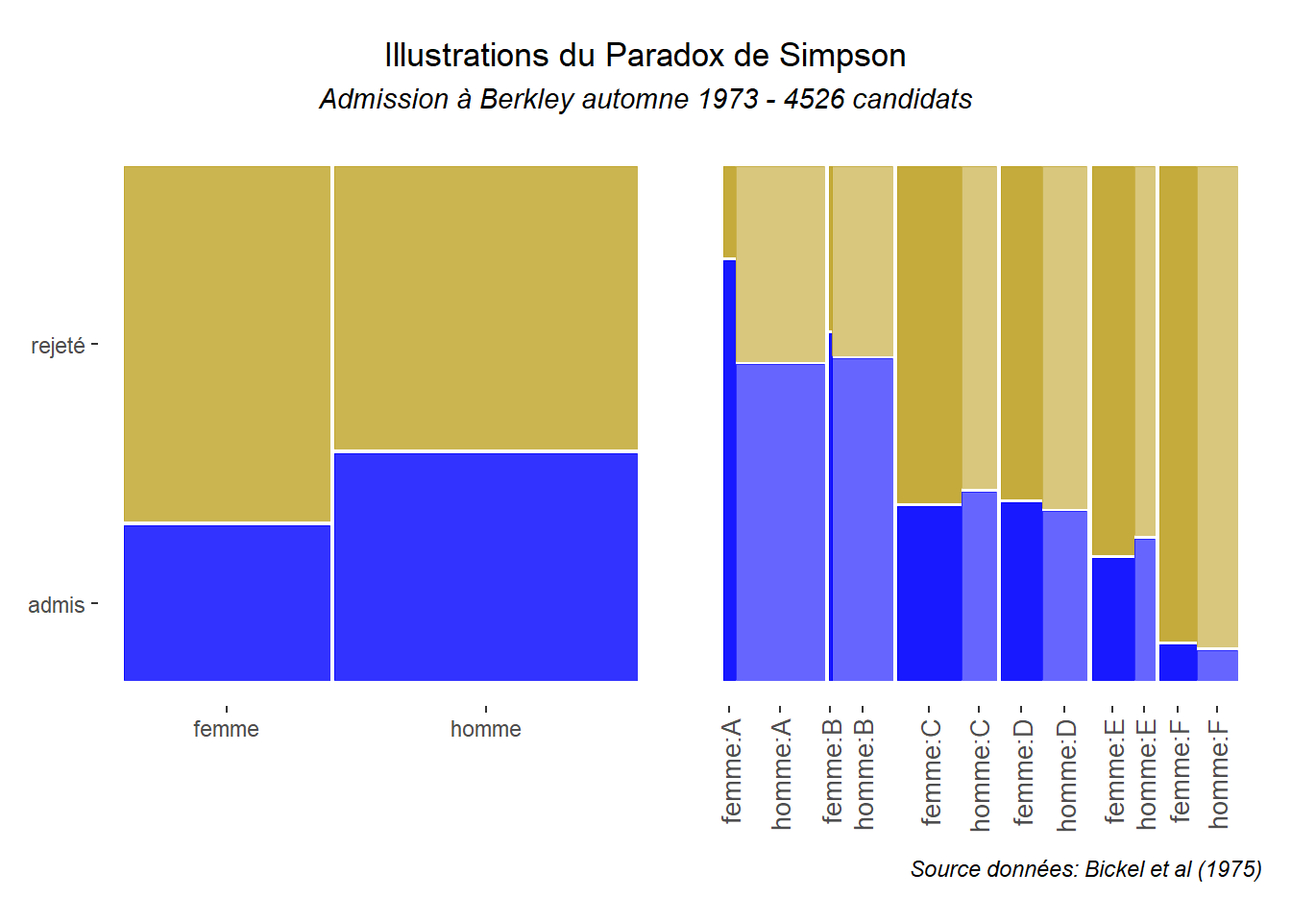
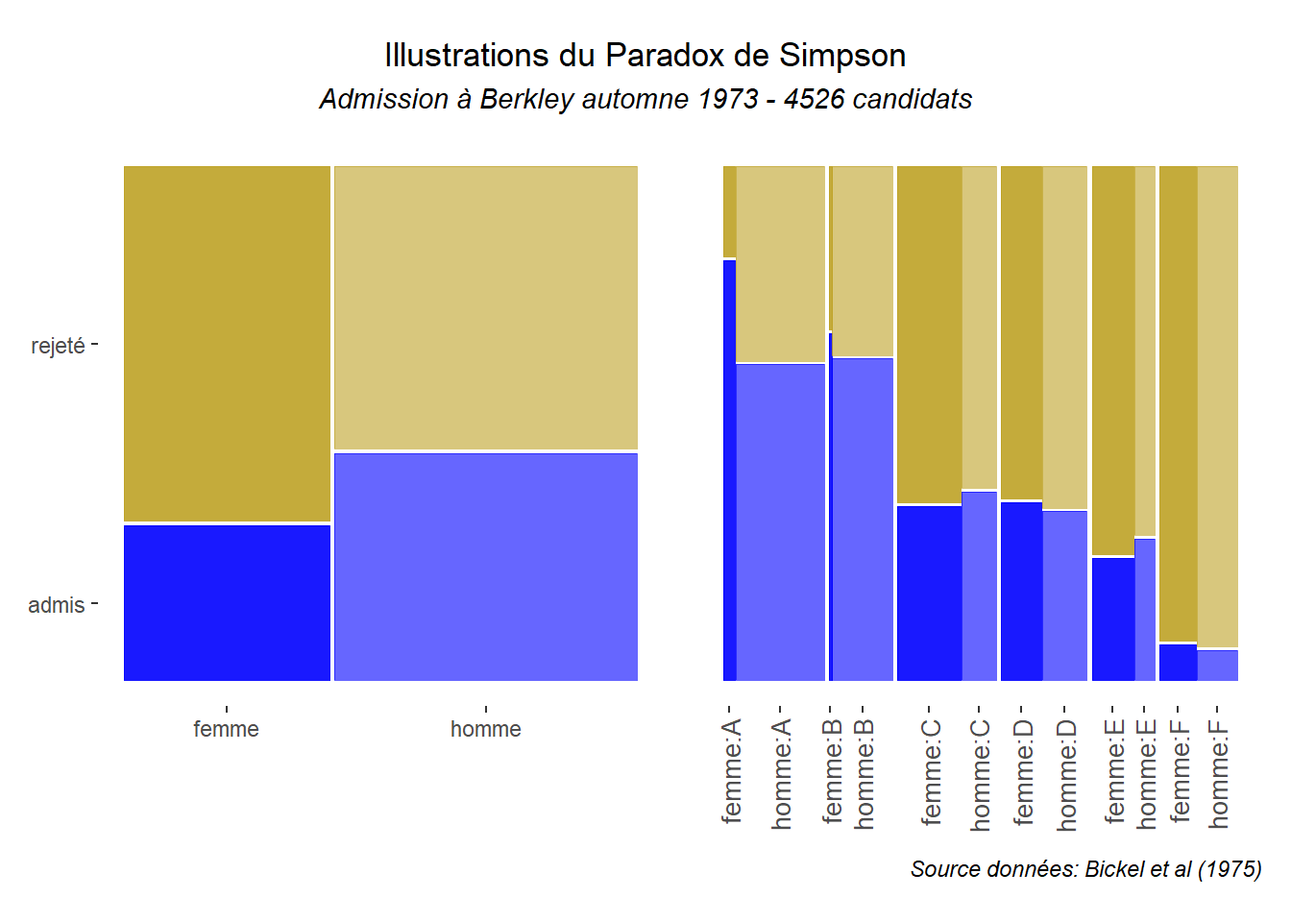
mod gt6 encore

Changed region(s): [[0.0938, 0.1562, 0.5, 0.75]]

diff --git a/content/post/2022-01-07-le-diagramme-en-mosaic-et-le-graphe-marimekko-gt6/index.html b/content/post/2022-01-07-le-diagramme-en-mosaic-et-le-graphe-marimekko-gt6/index.html
@@ -15,15 +15,15 @@ tags:
 <script src="{{< blogdown/postref >}}index_files/header-attrs/header-attrs.js"></script>
 
 
-<p><strong>Continuons notre exploration des graphes permettant d’illustrer la comparaison entre des variables catégorielles avec une autre alternative aux diagrammes à bâtons. Intéressons-nous maintenant aux diagrammes en mosaïque et le graphe de Marimekko (ou Mekko). Ceux-ci mobilisent des éléments rectangulaires que se combinent dans unique rectangle. Chaque dimension de ce dernier est attachée à une des variables. Ainsi, on a sur la largeur (les abscisses) des barres accolées correspondant aux différentes modalités de la première variable et sur la longueur (les ordonnées) empilées les modalité de la seconde variable. Les séparations entre modalités reprises sur chaque dimension sont opérées de manière à représenter les effectifs des éléments qui la compose. La taille des groupes désignées par l’interaction des variables est ainsi reflété par la surface du rectangle qui lui correspond. Cela facilite l’identification des relations entre les variables.</strong></p>
-<p>Tout ceci est un peu abstrait… Prenons un exemple d’utilisation de ce type de graphe et profitons en pour comparer le rendu avec différentes formes de diagramme à bâtons. Mais, avant de nous lancer chargeons quelques packages utils pour la suite.</p>
+<p><strong>Continuons notre exploration des graphes permettant d’illustrer une comparaison entre des variables catégorielles. Intéressons-nous aux diagrammes en mosaïque et au graphe de Marimekko (ou Mekko plot). Ceux-ci mobilisent des éléments rectangulaires, les tuiles de la mosaïque, que se combinent dans grand rectangle. Chacune de ses dimensions est attachée à une des variables. Ainsi, on a en abscisses des barres accolées correspondant aux différentes modalités de la première variable et sur les ordonnées empilées les modalités de la seconde. Les séparations entre modalités sont opérées de manière à représenter les effectifs qui les composent. La taille des groupes désignées par l’intersection des variables est ainsi représentée par la surface du petit rectangle qui lui correspond. Cela facilite l’identification des relations entre les variables.</strong></p>
+<p>Tout ceci est un peu abstrait… Prenons un exemple d’utilisation de ce type de graphe pour y voir plus clair et profitons-en pour comparer le rendu avec celui des différentes formes de diagramme à bâtons. Mais, avant de nous lancer, chargeons quelques packages utiles pour la suite.</p>
 <pre class="r"><code>library(tidyverse)
 library(patchwork)
 library(rvest)
 library(ggmosaic)</code></pre>
-<p>Notez la présence de deux packages que nous n’avons pas encore utilisé rvest et ggmosaic. Le premier sert à scrapper des informations sur internet. Le second, comme son nom l’indique, permet intègre un <strong>geom_</strong> supplémentaire dans ggplot pour réaliser facilement un diagramme en mosaïque (ou un de ses dérivés).</p>
-<p>Venons-en aux données mobilisées. Utilisons celles proposées par Bickel et al. (1975)<a href="#fn1" class="footnote-ref" id="fnref1"><sup>1</sup></a>. Dans cet article, les auteurs s’intéressent au biais de sélection en fonction du sexe affectant les candidats à l’admission à l’université de Berkeley. Ils montrent que, si l’on s’arrête à l’analyse bi-variée, les femmes apparaissent nettement défavorisées par rapport aux hommes. Néanmoins, si l’on creuse et que l’on prend en compte les départements dans lesquels les candidats postulent, la différence homme femme n’est plus significative. On se rend compte que si les femmes sont moins souvent admis à Berkley, c’est qu’elles postulent plus souvent dans les départements les plus sélectifs et donc son plus souvent rejetée. On est face à ce que l’on appel le paradoxe de Simpson, le résultat primaire est contre-dit par le résultat approfondi prenant en compte plus de facteurs. D’un point de vue pratique, si on avait voulu assurer l’égalité hommes/femmes à Berkley à l’époque, il aurait été plus utile d’agrandir les départements dans lesquels elles postulent le plus ou les encourager à postuler sur d’autres moins sélectifs plutôt que de travailler sur une discrimination globale.</p>
-<p>Allons chercher ces données sur la page wikipédia anglo-saxonne dédiée au <a href="https://en.wikipedia.org/wiki/Simpson%27s_paradox">paradoxe de Simpson</a>.Commençons par intégrer le premier tableau dans R en utilisant les fonctions de rvest. <strong>read_html()</strong> crée la connexion avec la page où se trouve l’information. <strong>html_nodes()</strong> trie l’information sur la page pour isoler l’élément que vous voulez intégrer dans R. Ici, nous utilisons l’option xpath. Pour obtenir, le chemin de l’élément sélectionné le tableau sur la page, effectuez un clique gauche, sélectionnez “inspecter”, puis dans la nouvelle fenêtre qui s’ouvre sélectionner “copier xpath”. <strong>htm_table()</strong> permet de structurer l’information du tableau.</p>
+<p>Notez la présence de deux packages que nous n’avons pas encore utilisé rvest et ggmosaic. Le premier sert à scrapper des informations sur internet. Le second, comme son nom l’indique, permet intégrer un <strong>geom_</strong> supplémentaire dans ggplot pour réaliser facilement un diagramme en mosaïque.</p>
+<p>Venons-en aux données mobilisées. Utilisons celles proposées par Bickel et al. (1975)<a href="#fn1" class="footnote-ref" id="fnref1"><sup>1</sup></a>. Dans cet article, les auteurs s’intéressent au biais de sélection en fonction du sexe affectant les candidats à l’admission à l’université de Berkeley en 1973. Ils montrent que, si l’on s’arrête à l’analyse bi-variée, les femmes apparaissent nettement défavorisées par rapport aux hommes. Néanmoins, si l’on creuse et que l’on prend en compte les départements dans lesquels les candidats postulent, la différence homme/femme n’est plus significative. On se rend compte que si les femmes sont moins souvent admise à Berkley, c’est qu’elles postulent plus dans les départements les plus sélectifs et donc son plus souvent rejetée. On est face à ce que l’on appel le paradoxe de Simpson, le résultat primaire est contre-dit par le résultat approfondi prenant en compte plus de facteurs. D’un point de vue pratique, si on avait voulu assurer l’égalité hommes/femmes à Berkley à l’époque, il aurait été plus utile d’augmenter le nombre de places dans les départements dans lesquels elles postulent le plus ou les encourager à postuler sur d’autres moins sélectifs plutôt que de travailler sur une discrimination globale.</p>
+<p>Allons chercher ces données sur la page wikipédia anglo-saxonne dédiée au <a href="https://en.wikipedia.org/wiki/Simpson%27s_paradox">paradoxe de Simpson</a>.Commençons par intégrer le premier tableau dans R en utilisant les fonctions de rvest. <strong>read_html()</strong> crée la connexion avec la page où se trouve l’information. <strong>html_nodes()</strong> trie l’information sur la page pour isoler l’élément que vous voulez traiter. Ici, nous utilisons l’option xpath. Pour obtenir le chemin de l’élément, sélectionnez le tableau sur la page, effectuez un clique gauche, sélectionnez “inspecter”, puis dans la nouvelle fenêtre qui s’ouvre sélectionner “copier xpath”. <strong>htm_table()</strong> permet de restructurer les éléments importer pour l’intégrer dans un tableau.</p>
 <pre class="r"><code>url&lt;-&quot;https://en.wikipedia.org/wiki/Simpson%27s_paradox&quot;
 dat1&lt;-url %&gt;% 
     read_html() %&gt;%
@@ -34,7 +34,7 @@ dat1</code></pre>
 <pre><code>##   Var.1        All    All.1        Men    Men.1      Women  Women.1
 ## 1       Applicants Admitted Applicants Admitted Applicants Admitted
 ## 2 Total     12,763      41%      8,442      44%      4,321      35%</code></pre>
-<p>L’information obtenue doit être retravailler pour permettre son traitement. Vous voudrions simplement une data frame avec une colonne pour le sexe du candidat et une pour son statut (admis ou rejeté). Utilisons la fonction <strong>rep()</strong> pour générer les observations correspondant et vérifions si le résultat est conforme au tableau que nous avons scrappé avec les fonctions <strong>table()</strong> et <strong>addmargins()</strong>.</p>
+<p>L’information obtenue doit être retravailler pour permettre son traitement. Vous voudrions simplement une data frame avec une colonne pour le sexe des candidats et une pour leur statut (admis ou rejeté). Utilisons la fonction <strong>rep()</strong> pour générer les observations correspondant et vérifions si le résultat est conforme au tableau que nous avons scrappé avec les fonctions <strong>table()</strong> et <strong>addmargins()</strong>.</p>
 <pre class="r"><code>dat1&lt;-data.frame(
   sexe=c(rep(&#39;homme&#39;,8442),rep(&#39;femme&#39;,4321)),
   statut=c(rep(&#39;admis&#39;,round(8442*0.41)),
@@ -47,7 +47,7 @@ addmargins(table(dat1))</code></pre>
 ##   femme  1512   2809  4321
 ##   homme  3461   4981  8442
 ##   Sum    4973   7790 12763</code></pre>
-<p>Maintenant que nous avons nos données, essayons d’illustrer la différence hommes/femmes concernant le taux d’admission à Berkley. Commençons par un diagramme à bâtons juxtaposés. Il s’obtient grâce au <strong>geom_bar()</strong> et l’option position “dodge”. Réalisons quelques mises en formes de manière obtenir le graphe le plus parlant possible. Retenons notamment les couleurs de l’université (bleu et marron claire) pour nos barres.</p>
+<p>Maintenant que nous avons nos données, essayons d’illustrer la différence hommes/femmes concernant le taux d’admission à Berkley. Commençons par un diagramme à bâtons juxtaposés. Il s’obtient grâce au <strong>geom_bar()</strong> et l’option <em>position</em> “dodge”. Réalisons également quelques mises en formes de manière obtenir le graphe le plus parlant possible. Retenons notamment les couleurs de l’université (bleu et marron claire) pour nos barres.</p>
 <pre class="r"><code>ggplot(dat1,aes(x=sexe,fill=statut))+
   geom_bar(position=&#39;dodge&#39;)+
   geom_text(aes(label = ..count..),stat = &quot;count&quot;, vjust = 5,colour = &quot;white&quot;,
@@ -65,7 +65,7 @@ addmargins(table(dat1))</code></pre>
         axis.title.y = element_text(hjust=0,angle=0),
         legend.position=&#39;none&#39;)</code></pre>
 <p><img src="{{< blogdown/postref >}}index_files/figure-html/unnamed-chunk-4-1.png" width="672" /></p>
-<p>On voit nettement qu’il y a beaucoup plus de candidats hommes que femme. Par contre, la différence en terme de taux de réussite est bien moins nette. Voyons ce qu’il en est, si on utilise cette fois des barres empilées. Nous les obtenons en indiquant ‘stack’ dans l’option position du **geom_bar()*. Pour rendre les indications textuelles incluent dans les bars plus facile à manipuler, nous créons une variable pour les stocker.</p>
+<p>On voit nettement qu’il y a beaucoup plus de candidats hommes que femmes. Par contre, la différence en terme de taux de réussite est bien moins nette. Voyons ce qu’il en est, si on utilise des barres empilées. Nous les obtenons en indiquant ‘stack’ dans l’option <em>position</em> du <strong>geom_bar()</strong>. Pour rendre les indications textuelles incluent dans les bars plus faciles à manipuler, nous créons une variable les reprenant.</p>
 <pre class="r"><code>dat1&lt;-dat1 %&gt;% 
   mutate(et=ifelse(sexe==&#39;femme&#39;&amp;statut==&#39;admi&#39;,&#39;1512 admis&#39;,
             ifelse(sexe==&#39;femme&#39;&amp;statut==&#39;rejeté&#39;,&#39;2809 rejetés&#39;,
@@ -85,7 +85,7 @@ ggplot(dat1,aes(x=sexe,fill=statut))+
         axis.title.y = element_text(hjust=0,angle=0),
         legend.position=&#39;none&#39;)</code></pre>
 <p><img src="{{< blogdown/postref >}}index_files/figure-html/unnamed-chunk-5-1.png" width="672" /></p>
-<p>La différence en terme de proportion d’admissions entre hommes et femmes est maintenant apparente. Néanmoins, on peine à en réaliser l’ampleur de cette dernière du fait des tailles différentes des groupes définis en fonction du sexe. Voyons ce qu’il en est si on établit la hauteur des barres les représentant pour qu’elles soient la même. Pour cela, indiquons “fill” dans l’option position du <strong>geom_bar()</strong>.</p>
+<p>La différence en termes de proportions d’admissions entre hommes et femmes est maintenant clairement apparente. Néanmoins, on peine à en réaliser son ampleur du fait des tailles différentes des groupes définis en fonction du sexe. Voyons ce qu’il en est si on établit la hauteur des barres les représentant pour qu’elles soient la même. Pour cela, indiquons “fill” dans l’option <em>position</em> du <strong>geom_bar()</strong>.</p>
 <pre class="r"><code>ggplot(dat1,aes(x=sexe,fill=statut))+
   geom_bar(position=&#39;fill&#39;)+
   geom_text(aes(label = et,y=..count..),stat=&quot;count&quot;,vjust = 3,colour = &quot;white&quot;,
@@ -101,8 +101,8 @@ ggplot(dat1,aes(x=sexe,fill=statut))+
         axis.title.y = element_text(hjust=0,angle=0),
         legend.position=&#39;none&#39;)</code></pre>
 <p><img src="{{< blogdown/postref >}}index_files/figure-html/unnamed-chunk-6-1.png" width="672" /></p>
-<p>Cette fois, la différence en terme de taux d’admission est bien mise en évidence. On voit bien que ce taux est proche de 35% pour les femmes tandis qu’il est plus proche de 40% pour les hommes. On perd cependant en partie l’information concernant la taille des groupes. Il ne reste que les indications textuelles que nous avons ajoutées.</p>
-<p>Un diagramme en mosaic permet de remédier au problème en mettant en évidence à la fois la différence de tailles en proportion des groupes hommes/femmes et admis/rejeté. Pour le mettre en oeuvre, utilisons le <strong>geom_mosaic()</strong> du package ggmosaic. Indiquons comme esthétique (<strong>aes()</strong>) pour x l’intersection entre statut et sexe. Cela est rendu possible par la fonction <strong>product()</strong>. Indiquons également que nous souhaitons que les différents éléments du graphe soient coloré en fonction du statut (bleu pour les admis et marron pour les rejetés).</p>
+<p>Cette fois, la différence de taux d’admission est bien mise en évidence. On voit que prés de 35% des candidates sont admises tandis que prés de 40% des candidats sont admis. On perd cependant en partie l’information concernant la taille des groupes hommes/femmes. Il ne reste que les indications textuelles que nous avons ajoutées pour intégrer cette information.</p>
+<p>Un diagramme en mosaïque permet de remédier au problème en mettant en évidence à la fois la différence de tailles en proportion des groupes hommes/femmes et admis/rejeté. Pour le mettre en oeuvre, utilisons le <strong>geom_mosaic()</strong> du package ggmosaic. Indiquons comme esthétique (<strong>aes()</strong>) pour x l’intersection entre statut et sexe. Cela est rendu possible par la fonction <strong>product()</strong>. Indiquons également que nous souhaitons que les différents éléments du graphe soient colorés en fonction de statut (bleu pour les admis et marron pour les rejetés).</p>
 <pre class="r"><code>ggplot(dat1) + 
   geom_mosaic(aes(x=product(statut,sexe),fill=statut),position = &#39;identity&#39;)+
   labs(title=&#39;Admissions à Berkley automne 1973&#39;,
@@ -116,7 +116,7 @@ ggplot(dat1,aes(x=sexe,fill=statut))+
         axis.title = element_blank(),
         legend.position=&#39;none&#39;)</code></pre>
 <p><img src="{{< blogdown/postref >}}index_files/figure-html/unnamed-chunk-7-1.png" width="672" /></p>
-<p>Les proportions sont bien rendu dans ce nouveau graphe. On voit bien que le nombre de femmes candidates représente moins d’un tiers de l’ensemble et qu’elles sont admises à un taux proche de 33% alors que les hommes qui représentent plus des deux tiers de l’ensemble sont admis à un taux supérieure proche des 40%.</p>
+<p>Les proportions sont bien rendues dans ce nouveau graphe. On voit clairement que le nombre de femmes candidates représente moins d’un tiers de l’ensemble et qu’elles sont admises à un taux un peu plus élevé que 33% alors que les hommes qui représentent plus des deux tiers de l’ensemble sont admis à un taux supérieur (plus proche des 40%).</p>
 <p>Sans indications chiffrées, le diagramme en mosaïque rend bien compte de la relation entre les deux variables. Comme tout les graphes issus de ggplot, il peut être personnalisé. On peut notamment utiliser <strong>geom_mosaic_text()</strong> pour faire apparaître la valeur des différentes variables à l’intérieur du graphe et non sur les axes.</p>
 <pre class="r"><code>ggplot(dat1) + 
   geom_mosaic(aes(x=product(statut,sexe),fill=statut),position = &#39;identity&#39;)+
@@ -134,7 +134,7 @@ ggplot(dat1,aes(x=sexe,fill=statut))+
         axis.ticks = element_blank(),
         legend.position=&#39;none&#39;)</code></pre>
 <p><img src="{{< blogdown/postref >}}index_files/figure-html/unnamed-chunk-8-1.png" width="672" /></p>
-<p>Il y a une différence apparente entre les hommes et les femmes concernant leur admission à Berkley. Mais est-elle statistiquement significative? Pour le savoir procédons à un test de différences de proportions (du khi2) à l’aide de la fonction <strong>prop.test()</strong>.</p>
+<p>Il y a une différence apparente entre les hommes et les femmes concernant l’admission à Berkley. Mais est-elle statistiquement significative? Pour le savoir, procédons à un test de différences de proportions (basé sur un khi2) à l’aide de la fonction <strong>prop.test()</strong>.</p>
 <pre class="r"><code>table(dat1$statut,dat1$sexe) %&gt;% prop.test() </code></pre>
 <pre><code>## 
 ##  2-sample test for equality of proportions with continuity correction
@@ -147,8 +147,8 @@ ggplot(dat1,aes(x=sexe,fill=statut))+
 ## sample estimates:
 ##    prop 1    prop 2 
 ## 0.3040418 0.3605905</code></pre>
-<p>La p-value est très petite, on rejette donc largement l’hypothèse d’égalité entre les proportions. Celle-ci est statistiquement significative. On pourrait conclure à une discrimination basé sur les goûts des jury d’admission qui seraient défavorables au femmes. Néanmoins, si on approfondit l’analyse pour prendre en compte les départements dans lesquels les étudiants ont candidaté, on voit que les choses sont différentes.</p>
-<p>Introduisons donc cette nouvelles variables dans l’analyse. Pour cela, voyons le second tableau de la page wikipedia. Chargeons-le dans R.</p>
+<p>La p-value est très petite, on rejette donc largement l’hypothèse d’égalité entre les proportions. La différence est statistiquement significative. On pourrait, sur cette base, conclure à une discrimination basée sur les goûts des jury d’admission qui seraient défavorables au femmes. Néanmoins, si on approfondit l’analyse pour prendre en compte les départements dans lesquels les étudiants ont candidaté, on voit que les choses sont différentes.</p>
+<p>Introduisons cette nouvelles variables dans l’analyse. Pour cela, voyons le second tableau de la page wikipedia. Chargeons-le dans R.</p>
 <pre class="r"><code>url&lt;-&quot;https://en.wikipedia.org/wiki/Simpson%27s_paradox&quot;
 dat2&lt;-url %&gt;% 
     read_html() %&gt;%
@@ -165,7 +165,7 @@ dat2</code></pre>
 ## 6          E        584      25%        191      28%        393      24%
 ## 7          F        714       6%        373       6%        341       7%
 ## 8      Total       4526      39%       2691      45%       1835      30%</code></pre>
-<p>Notons qu’il ne donne qu’un sous échantillon par rapport à notre base de départ. Considérons que celui-ci présente néanmoins les mêmes caractéristiques. Mettons-le en forme afin de pourvoir l’exploiter.</p>
+<p>Notons qu’il ne porte que sur un sous-échantillon de notre base de départ. Considérons que celui-ci présente néanmoins les mêmes caractéristiques. Mettons-le en forme afin de pourvoir l’exploiter.</p>
 <pre class="r"><code>dat2&lt;-data.frame(sexe=c(rep(&#39;homme&#39;,2691),rep(&#39;femme&#39;,1835)),
                  dep=c(rep(&#39;A&#39;,825),rep(&#39;B&#39;,560),rep(&#39;C&#39;,325),
                        rep(&#39;D&#39;,417),rep(&#39;E&#39;,191),rep(&#39;F&#39;,373),
@@ -189,7 +189,7 @@ addmargins(table(dat2$sexe,dat2$statut))</code></pre>
 ##   femme   557   1278 1835
 ##   homme  1197   1494 2691
 ##   Sum    1754   2772 4526</code></pre>
-<p>Ceci étant fait, on peut réaliser un diagramme en mosaïque pour vérifier si notre échantillon on reprouve le même type de différences hommes/femmes que dans le cadre général.</p>
+<p>Ceci étant fait, on peut réaliser un diagramme en mosaïque pour vérifier si notre sous-échantillon on reprouve bien le même type de différences hommes/femmes que dans le cadre général.</p>
 <pre class="r"><code>ggplot(dat2) + 
   geom_mosaic(aes(x=product(statut,sexe),fill=statut))+
   labs(title=&#39;Admissions à Berkley automne 1973&#39;, 
@@ -204,8 +204,8 @@ addmargins(table(dat2$sexe,dat2$statut))</code></pre>
         axis.title.y = element_blank(),
         legend.position = &#39;none&#39;) </code></pre>
 <p><img src="{{< blogdown/postref >}}index_files/figure-html/unnamed-chunk-12-1.png" width="672" /></p>
-<p>Il semble bien que ce soit le cas. On peut donc continuer l’analyse en intégrant une nouvelle variable correspondant au département dans lequel l’étudiant candidate.</p>
-<p>Voyons ce que donne le diagramme mosaïque. Cette fois, la déclaration de l’élément principale à représenter (x) comprendra trois éléments (statut, sexe et dep) que l’on introduit encore une fois avec la fonction <strong>product()</strong>. Indiquons pour faciliter la lecture que nous ferons varier la couleur (fill) en fonction du statut et le niveau de transparence (alpha) de ces couleurs en fonction du sexe. Utilisons l’option <em>divider</em> pour renforcer les séparations verticales et horizontale dans le graphe.</p>
+<p>Il semble bien que ce soit le cas. On peut donc continuer l’analyse en intégrant notre nouvelle variable.</p>
+<p>Voyons ce que donne le diagramme mosaïque. Cette fois, la déclaration de l’élément principale à représenter (x) comprendra trois variables (statut, sexe et dep) que l’on introduit conjointement avec la fonction <strong>product()</strong>. Indiquons pour faciliter la lecture que nous ferons varier la couleur (fill) en fonction de statut et le niveau de transparence (alpha) de ces couleurs en fonction de sexe. Utilisons l’option <em>divider</em> pour renforcer les séparations verticales et horizontales dans le graphe.</p>
 <pre class="r"><code>ggplot(dat2) + 
   geom_mosaic(aes(x=product(statut,sexe,dep),fill=statut,alpha=sexe),
               divider=c(&quot;vspine&quot;,&quot;hspine&quot;,&quot;hspine&quot;))+
@@ -223,7 +223,7 @@ addmargins(table(dat2$sexe,dat2$statut))</code></pre>
         axis.title.y = element_blank(),
         legend.position = &#39;none&#39;) </code></pre>
 <p><img src="{{< blogdown/postref >}}index_files/figure-html/unnamed-chunk-13-1.png" width="672" /></p>
-<p>On voit que les femmes ne sont pas moins fréquemment admise dans tout les départements. Leur taux d’admission est plus important que celui des hommes dans les départements A, B, D et F. Néanmoins, elles sont proportionnellement moins nombreuses à y postuler. Elles sont plus nombreuses à postuler dans les département C et E où le taux d’admission est relativement bas en générale et où elles sont légèrement moins fréquemment reçues. On peut dire qu’elles s’orientent sur les départements les plus sélectifs et donc sont plus souvent rejetées.</p>
+<p>On voit que les femmes ne sont pas moins fréquemment admises dans tout les départements. Leur taux d’admission est plus important que celui des hommes dans les départements A, B, D et F. Néanmoins, elles sont proportionnellement moins nombreuses à y postuler. Elles sont plus nombreuses à postuler dans les département C et E où le taux d’admission est en générale relativement bas et où elles sont légèrement moins fréquemment reçues que les hommes. On peut dire qu’elles s’orientent sur les départements les plus sélectifs et donc sont plus souvent rejetées.</p>
 <p>Bref, les choses semblent plus compliquées. Voyons ce qu’il en ait si on pratique des tests statistiques. Commençons par le simple test de différence de proportions.</p>
 <pre class="r"><code>table(dat2$statut,dat2$sexe) %&gt;% prop.test() </code></pre>
 <pre><code>## 
@@ -238,7 +238,7 @@ addmargins(table(dat2$sexe,dat2$statut))</code></pre>
 ##    prop 1    prop 2 
 ## 0.3175599 0.4610390</code></pre>
 <p>Comme sur l’échantillon précédant, on retrouve une différence significative (p-value très faible). On rejette l’hypothèse d’égalité de taux d’admission entre les hommes et les femmes. Les femmes semblent défavorisées lors de la sélection.</p>
-<p>Le test pratiqué ne permet pas d’inclure dep dans l’analyse. Pour palier à la difficulté, utilisons une régression logistique (grâce à la fonction <strong>glm()</strong>). Nous l’estimons pour avoir une référence pour suite sur la seule variable sexe (après quelques transformations rapides afin d’avoir des variables binaires).</p>
+<p>Le test pratiqué ne permet pas d’inclure dep dans l’analyse. Pour palier à la difficulté, utilisons une régression logistique (grâce à la fonction <strong>glm()</strong>). Nous l’estimons, pour avoir une référence pour suite, sur la seule variable sexe (après quelques transformations rapides afin d’avoir des variables binaires avec pour références admis et femme).</p>
 <pre class="r"><code>dat2$st_d&lt;-dat2$statut==&#39;admis&#39;
 dat2$sex_d&lt;-dat2$sexe==&#39;femme&#39;
 dat2 %&gt;% glm(formula=st_d~sex_d,
@@ -266,13 +266,13 @@ dat2 %&gt;% glm(formula=st_d~sex_d,
 ## AIC: 5954.4
 ## 
 ## Number of Fisher Scoring iterations: 4</code></pre>
-<p>Le coefficient est négatif et statistiquement significatif. Cela confirme que les femmes sont moins fréquemment admises à Berkley que les hommes. On peut utiliser <strong>binomial()$linkin()</strong> sur la constante pour obtenir la probabilité d’être admis pour un homme et le coefficient de la variable sex_d pour obtenir celle prévalant pour une femme.</p>
+<p>Le coefficient est négatif et statistiquement significatif. Cela confirme que les femmes sont moins fréquemment admises à Berkley que les hommes. On peut utiliser <strong>binomial()$linkin()</strong> sur la constante pour obtenir la probabilité estimée par le modèle d’être admis pour un homme et le coefficient de la variable sex_d pour obtenir celle prévalant pour une femme.</p>
 <pre class="r"><code>binomial()$linkinv(-0.221)</code></pre>
 <pre><code>## [1] 0.4449738</code></pre>
 <pre class="r"><code>binomial()$linkinv(-0.608)</code></pre>
 <pre><code>## [1] 0.3525156</code></pre>
-<p>D’aprés le modèle, un homme aurait 44,5% de chance d’être admis tandis qu’une femme aurait 35,2%.</p>
-<p>Incluons la variable dep dans le modèle pour voir si l’effet perdure lorsque l’on contrôle par le département dans lequel l’individu quandidate.</p>
+<p>D’après le modèle, un homme aurait 44,5% de chance d’être admis tandis qu’une femme n’aurait que 35,2% de chance d’être admises.</p>
+<p>Incluons la variable dep dans le modèle pour voir si l’effet perdure lorsque l’on contrôle par le département dans lequel l’individu candidate.</p>
 <pre class="r"><code>dat2 %&gt;% glm(formula=st_d~sex_d+dep,
              family = binomial(logit)) %&gt;% 
   summary()</code></pre>
@@ -304,9 +304,10 @@ dat2 %&gt;% glm(formula=st_d~sex_d,
 ## 
 ## Number of Fisher Scoring iterations: 5</code></pre>
 <p>Le coefficient associé à sex_d (le fait pour un candidat d’être une femme) n’est plus significatif. Il n’y a pas de différence concernant la probabilité d’admission entre hommes et femmes si l’on contrôle en fonction du département dans lequel elle ou il postule.</p>
-<p>On est face au paradoxe de Simpson qui est bien illustrer par nos diagrammes en mosaïque que l’on peut réunir avec le package pacthwork.</p>
+<p>On est face au paradoxe de Simpson qui est bien illustrer par nos diagrammes en mosaïque que l’on peut réunir en une seul figure avec le package pacthwork.</p>
 <pre class="r"><code>m1&lt;-ggplot(dat2) + 
-      geom_mosaic(aes(x=product(statut,sexe),fill=statut))+
+      geom_mosaic(aes(x=product(statut,sexe),fill=statut,alpha=sexe))+
+      scale_alpha_manual(values =c(0.9,0.6))+
       scale_fill_manual(values=c(&#39;#0000FF&#39;,&#39;#BEA226&#39;))+
       theme_mosaic()+
       theme(plot.title = element_text(hjust=0.5),
@@ -338,7 +339,7 @@ m1+m2+plot_annotation(
         plot.subtitle = element_text(hjust=0.5,face=&#39;italic&#39;),
         plot.caption= element_text(face=&#39;italic&#39;))</code></pre>
 <p><img src="{{< blogdown/postref >}}index_files/figure-html/unnamed-chunk-18-1.png" width="672" /></p>
-<p>Ce type de diagramme est pratique pour illustrer les liens entre variables catégorielles. Il donne une vision claire des effectifs croisés au travers de la différence de surface des rectangles qui le compose. Il présente néanmoins des limites. La première est que l’œil humain n’est pas très performant lorsqu’il s’agit de relever de faibles différences de surfaces. Il n’est pas très bon non plus pour évaluer les proportions de ces différences. La surface correspondant au homme admis est 3,15 fois celle des femmes admises dans le graphe sans les départements ((1197x2691)/(557x1835))… La seconde limites est qu’il devient vite illisible si les variables intègrent trop de catégories.</p>
+<p>Les diagrammes en mosaïque sont performant pour illustrer les liens entre variables catégorielles. Ils donnent une vision claire des effectifs croisés au travers de la différence de surface des rectangles qui les composent. Ils présentent néanmoins des limites. La première est que l’œil humain n’est pas très performant lorsqu’il s’agit de relever de faibles différences de surfaces. Il n’est pas non plus très bon pour évaluer les proportions de ces différences. La surface correspondant aux hommes admis est 3,15 fois celle des femmes admises dans le graphe sans les départements ((1197x2691)/(557x1835))… La seconde limites est qu’ils deviennent vite illisibles si les variables mobilisées intègrent trop de catégories.</p>
 <div class="footnotes">
 <hr />
 <ol>
